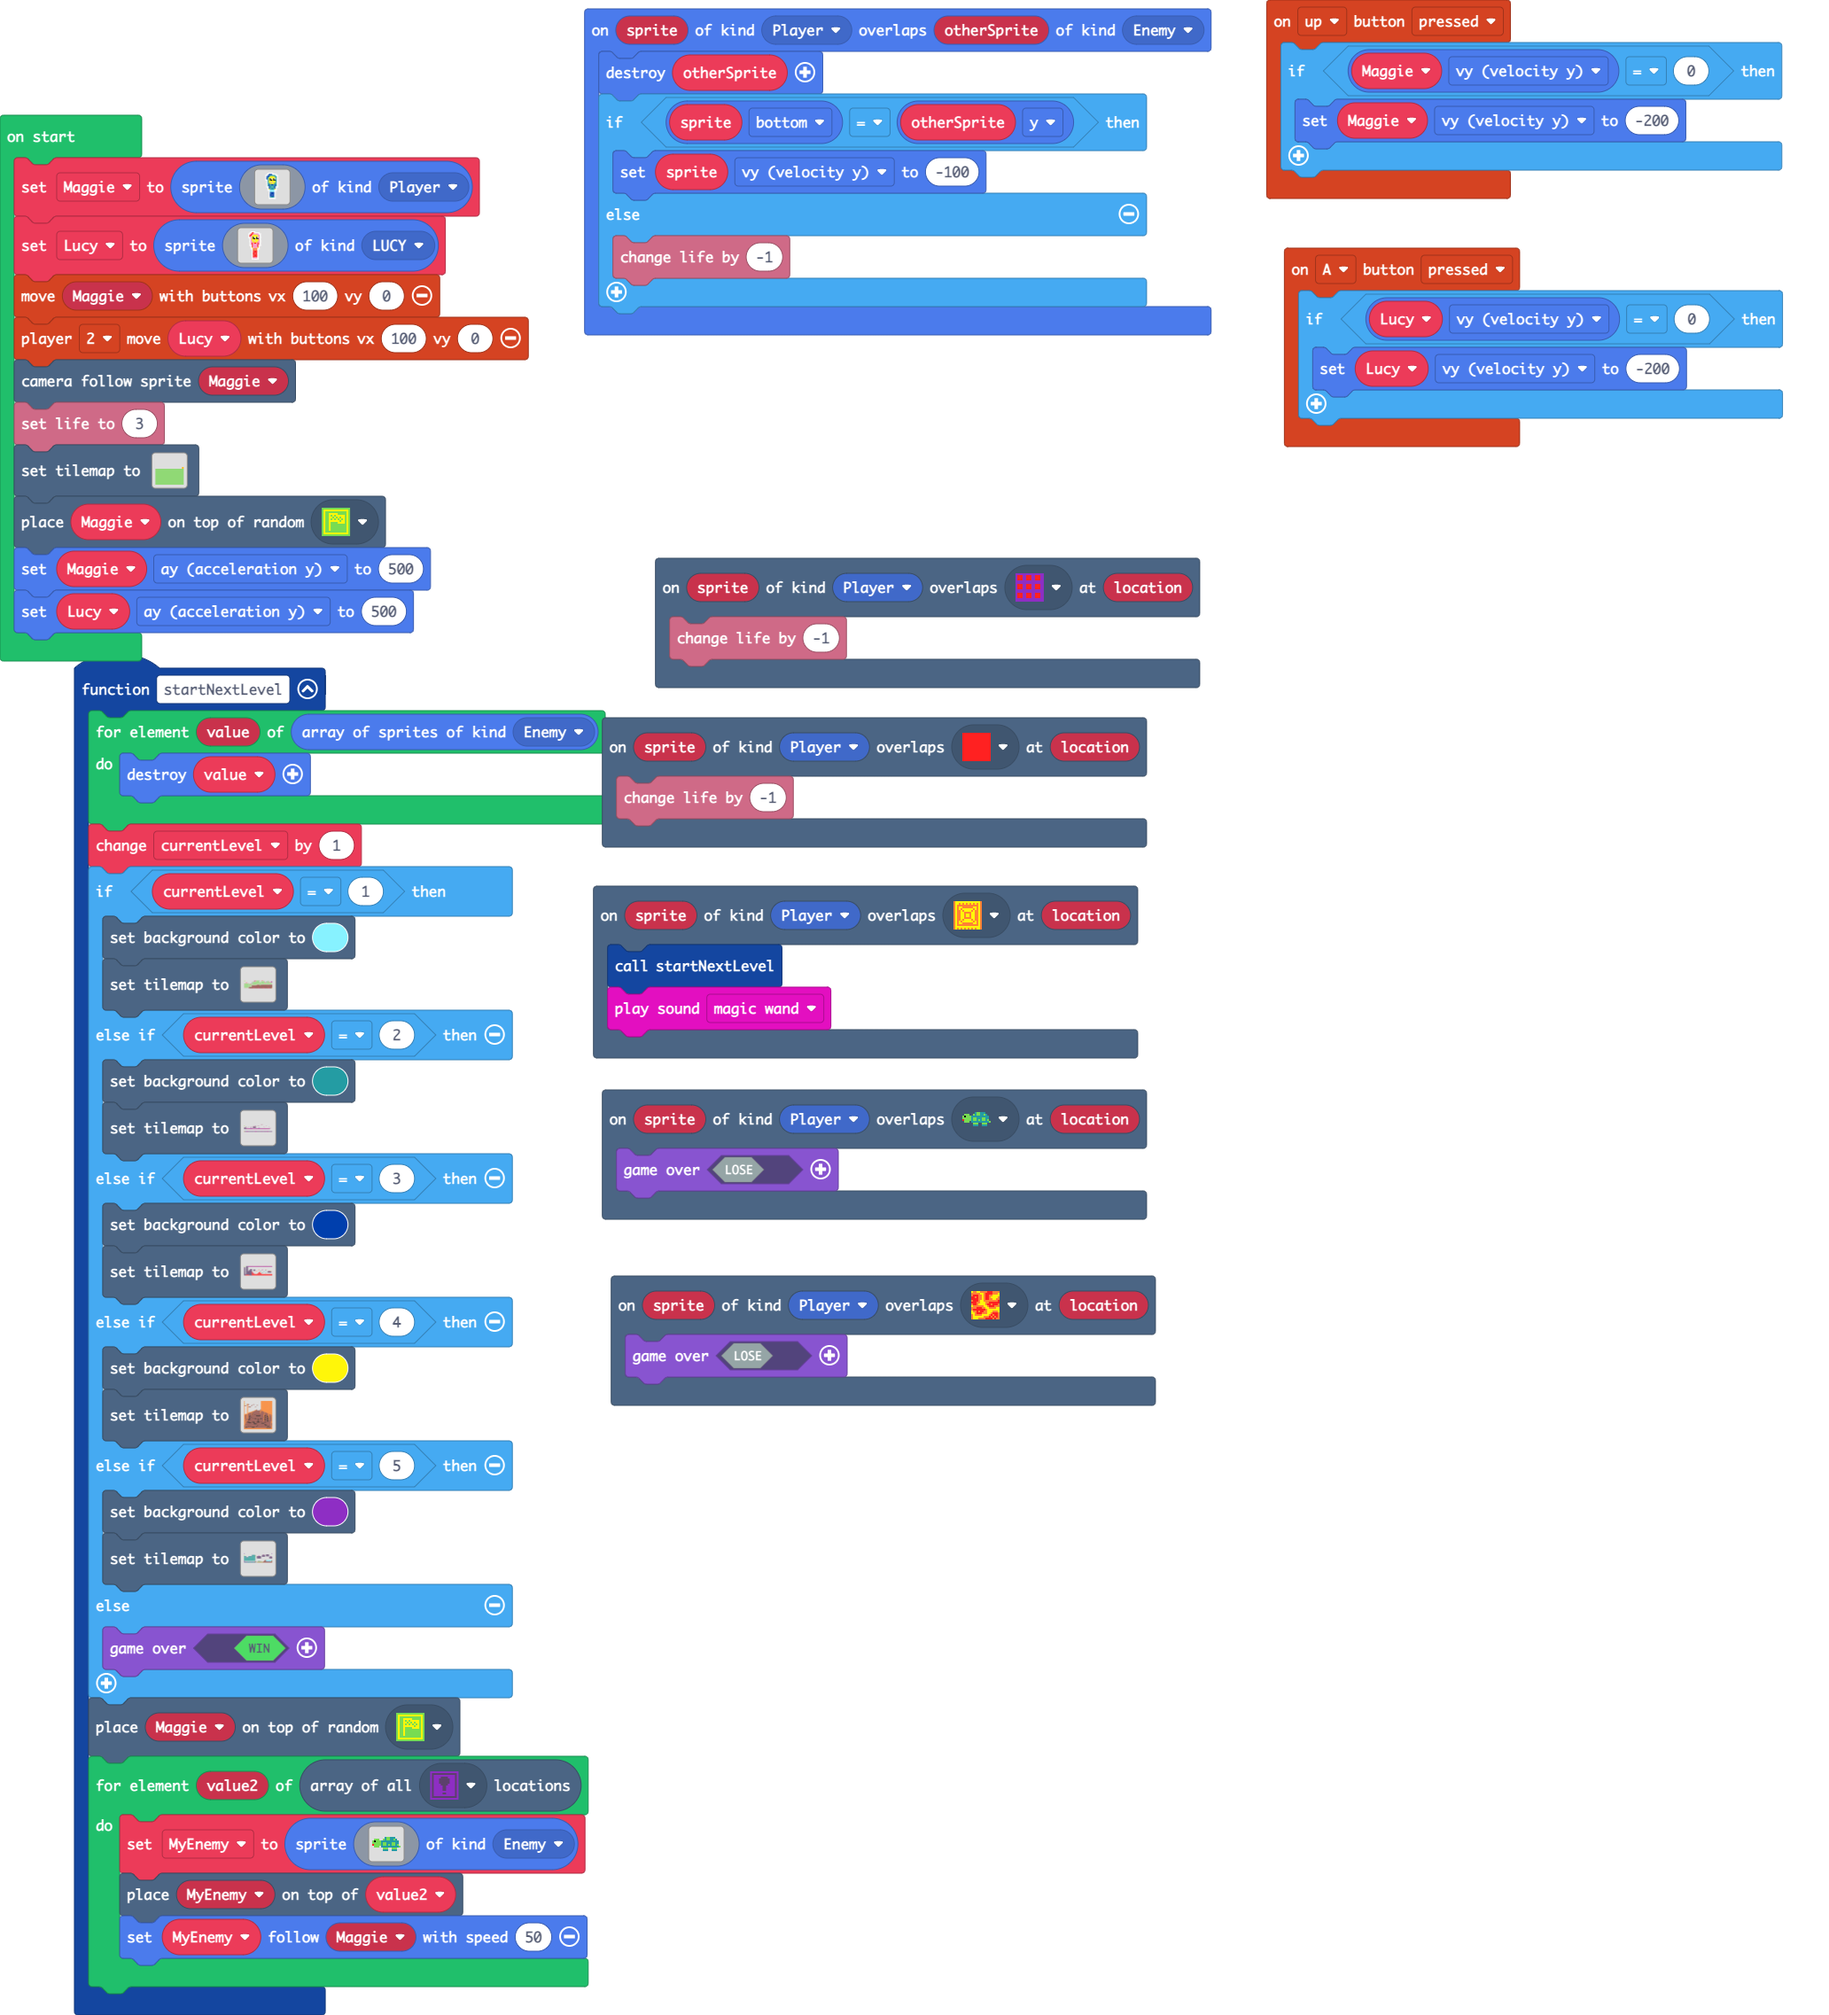
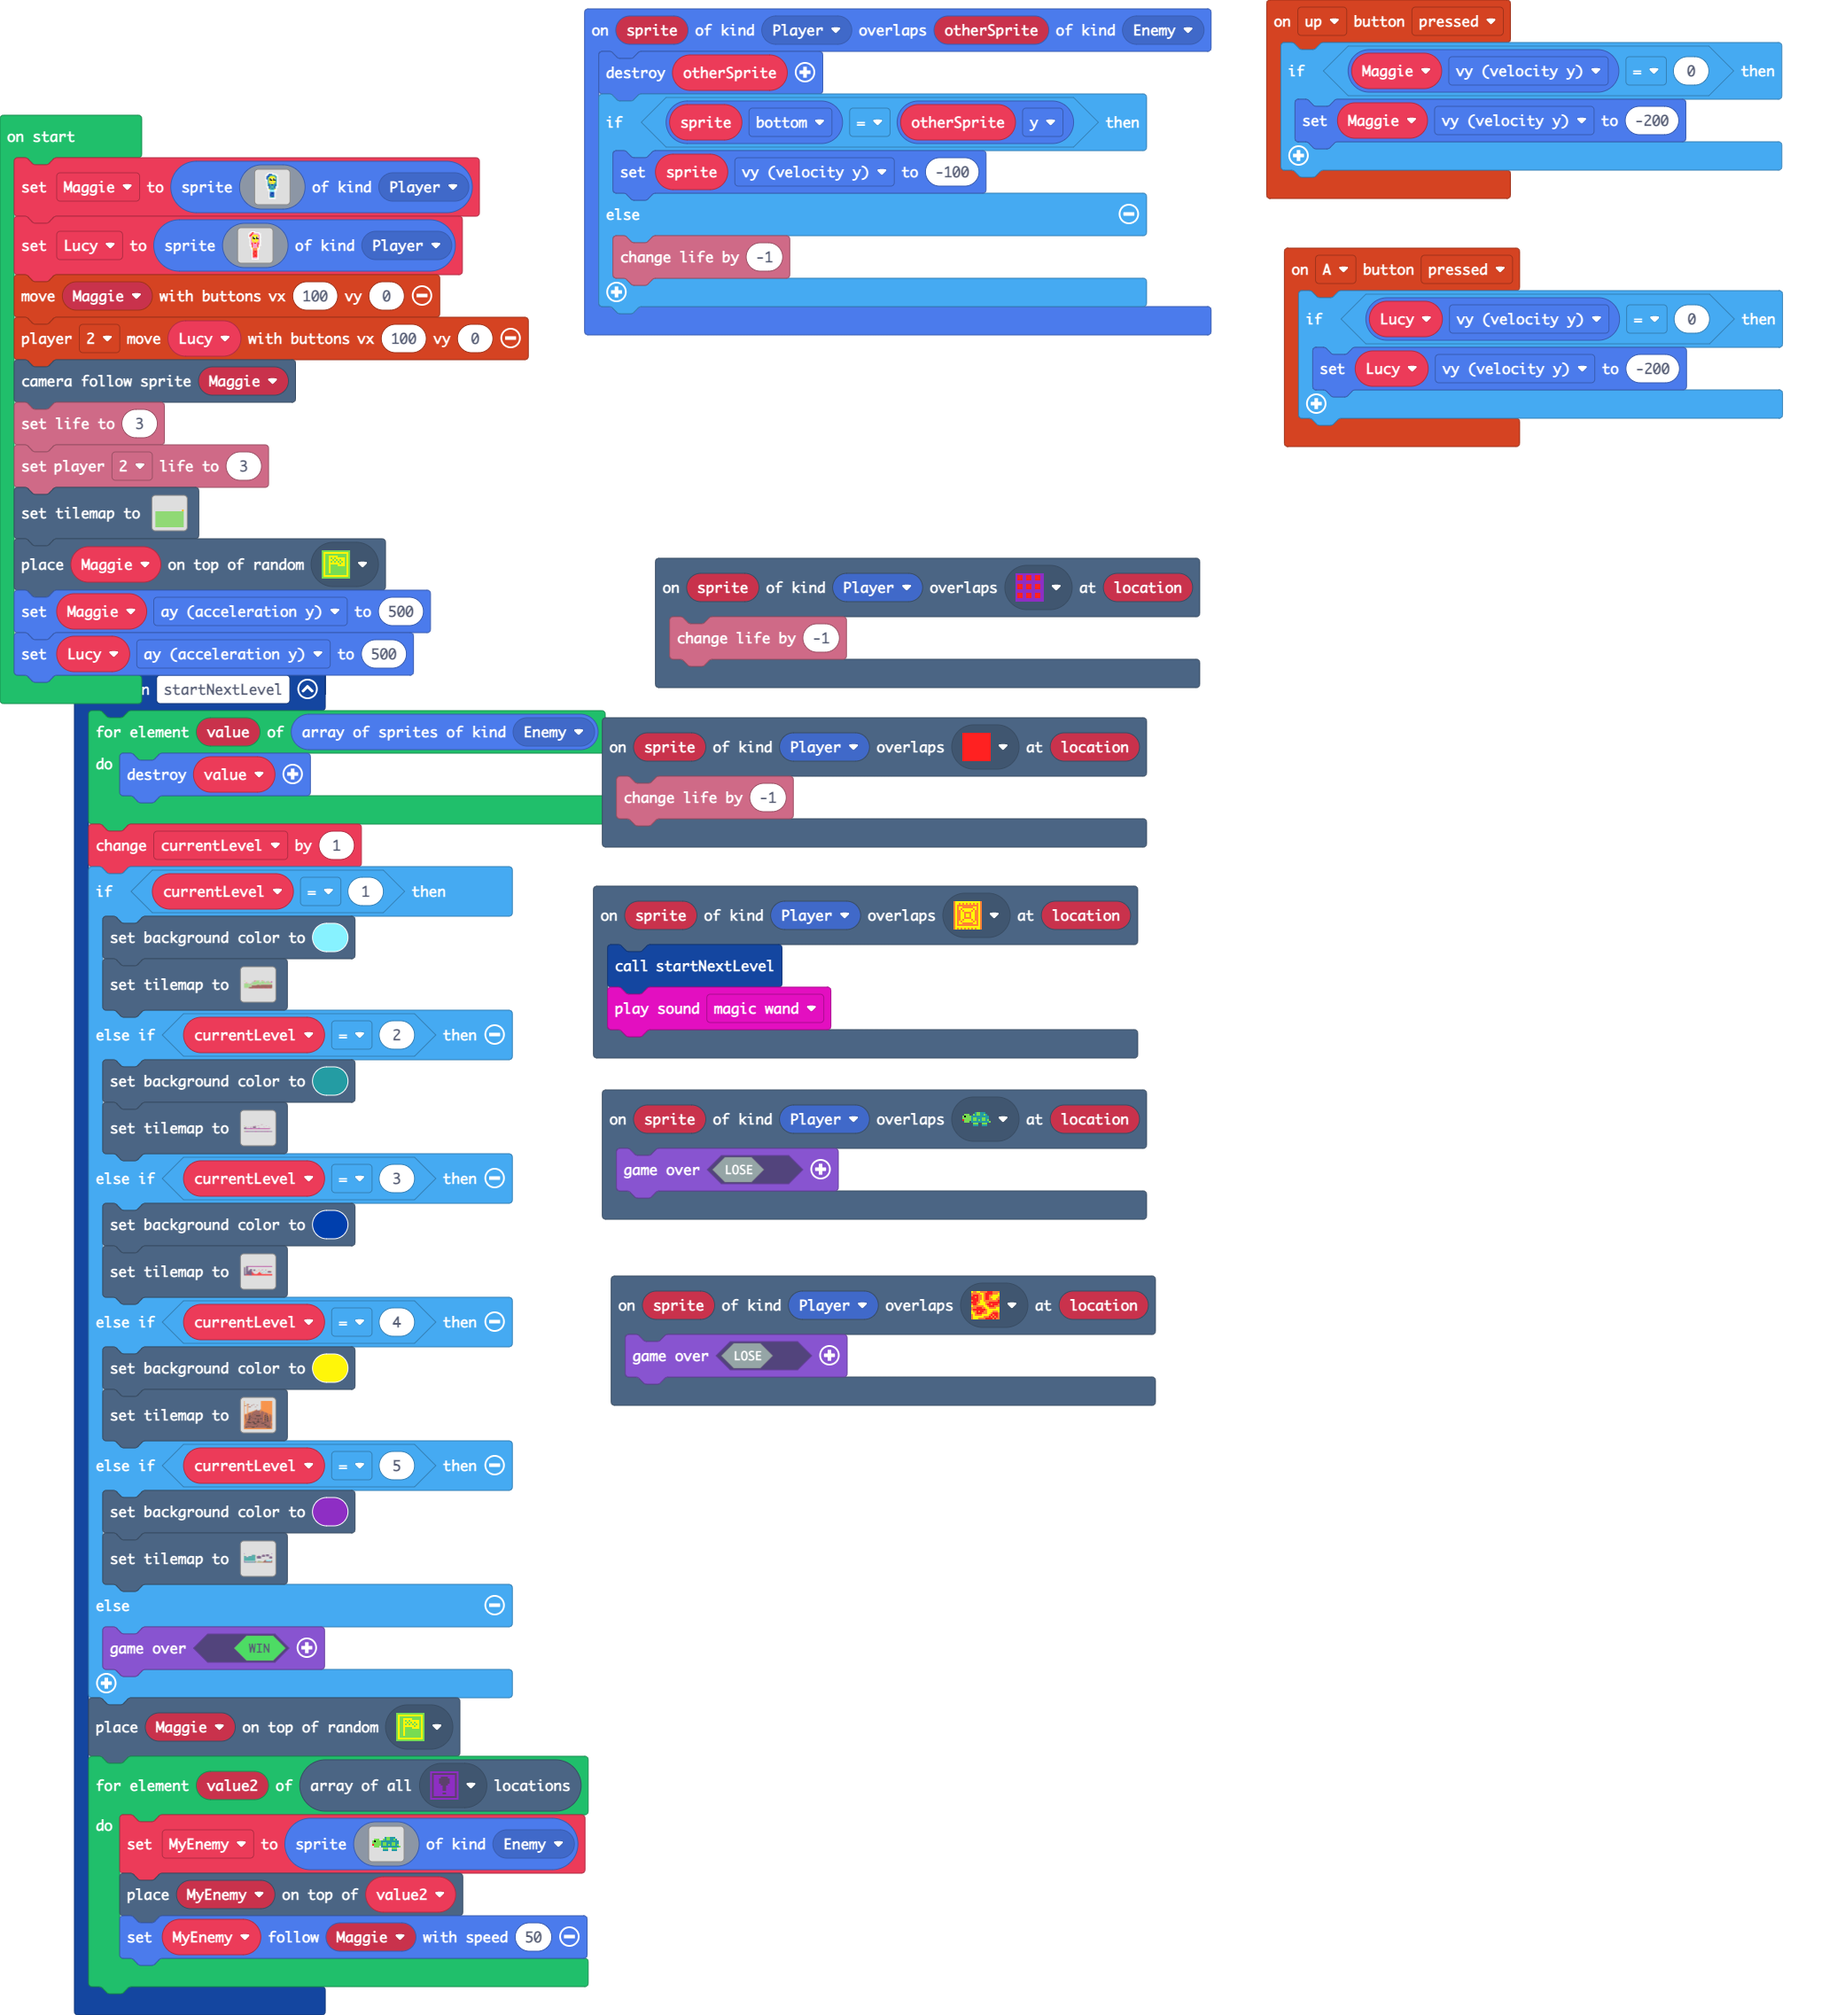
Update main.blocks, main.ts

Changed region(s): [[0.0, 0.2186, 0.2481, 0.3747], [0.2171, 0.0937, 0.2481, 0.1561]]

diff --git a/main.ts b/main.ts
@@ -123,11 +123,12 @@ Lucy = sprites.create(img`
     ....122221....
     ....133331....
     ....111111....
-    `, SpriteKind.LUCY)
+    `, SpriteKind.Player)
 controller.moveSprite(Maggie, 100, 0)
 controller.player2.moveSprite(Lucy, 100, 0)
 scene.cameraFollowSprite(Maggie)
 info.setLife(3)
+info.player2.setLife(3)
 tiles.setTilemap(tilemap`level7`)
 tiles.placeOnRandomTile(Maggie, assets.tile`myTile3`)
 Maggie.ay = 500
